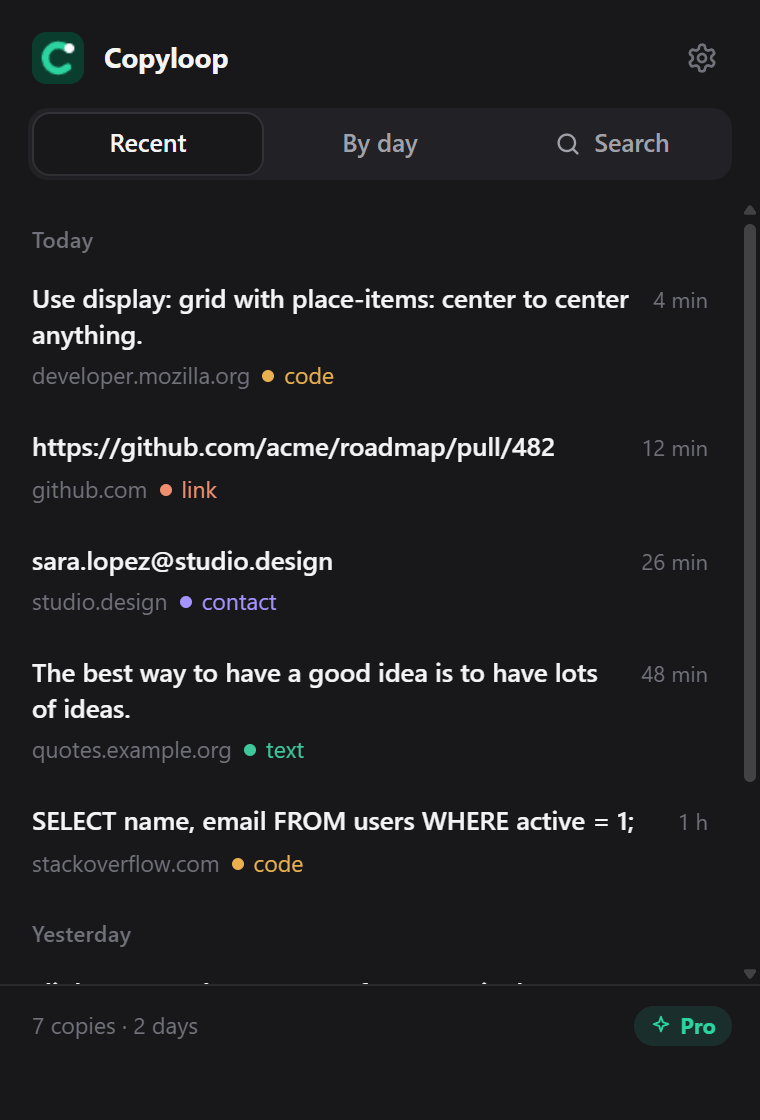
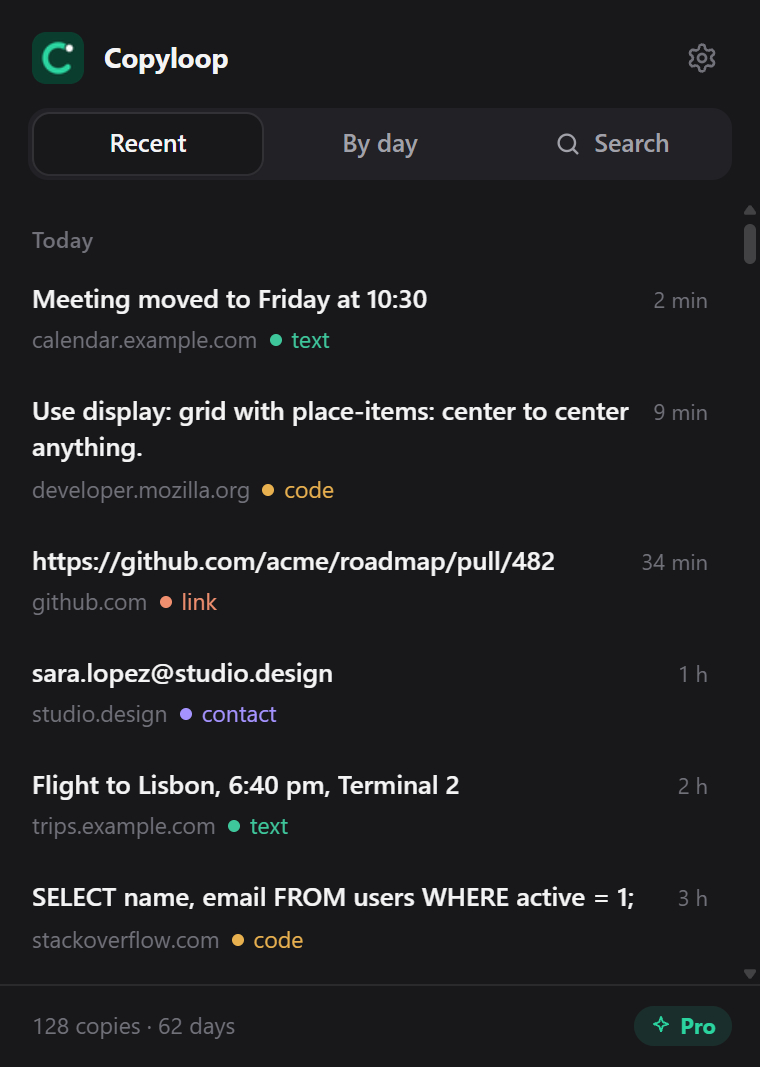
Update website for Copyloop 1.1.0
Add picture rows to the features section (search, by day, and the new
backup and restore), backup lines in the pricing plans and privacy list,
and a fresh popup screenshot in the hero.

diff --git a/index.html b/index.html
@@ -41,7 +41,7 @@
         <p class="note">Free forever plan · No account needed · Your history never leaves your device</p>
       </div>
       <div class="shot">
-        <img src="assets/popup.png" alt="The Copyloop popup showing recent copies, each with its site, a tag and the time" width="340" />
+        <img src="assets/popup.png?v=110" alt="The Copyloop popup showing recent copies, each with its site, a tag and the time" width="340" />
       </div>
     </div>
   </section>
@@ -50,6 +50,32 @@
     <div class="wrap">
       <h2>Your clipboard, with a memory</h2>
       <p class="sub">Chrome forgets what you copied as soon as you copy something else. Copyloop remembers all of it, and the page each copy came from.</p>
+
+      <div class="showcase">
+        <div class="show-row">
+          <div class="show-img"><img src="assets/shot-search.png" alt="Searching for &quot;invoice&quot; in Copyloop finds three copies, each with its site and date" width="380" loading="lazy" /></div>
+          <div class="show-text">
+            <h3>Find any copy in seconds</h3>
+            <p>Type a word you remember. Copyloop searches the copied text, the site and the page title, across your whole history.</p>
+          </div>
+        </div>
+        <div class="show-row flip">
+          <div class="show-img"><img src="assets/shot-day.png" alt="The By day view: a week strip with yesterday selected and the copies from that day" width="380" loading="lazy" /></div>
+          <div class="show-text">
+            <h3>Go back to any day</h3>
+            <p>Pick a day in the week strip to see everything you copied that day, or jump to any date with the calendar.</p>
+          </div>
+        </div>
+        <div class="show-row" id="backup">
+          <div class="show-img"><img src="assets/shot-backup.png" alt="The Save a backup page with password protection turned on and a Download backup button" width="420" loading="lazy" /></div>
+          <div class="show-text">
+            <span class="new">New in 1.1</span>
+            <h3>Bring your copies to a new computer</h3>
+            <p>Save all your copies to one file, with a password if you like. Restore it on another computer, or after reinstalling. Every copy keeps its original date.</p>
+          </div>
+        </div>
+      </div>
+
       <div class="grid">
         <div class="card">
           <div class="ico"><svg viewBox="0 0 24 24" fill="none" stroke="currentColor" stroke-width="2" stroke-linecap="round" stroke-linejoin="round"><rect width="13" height="13" x="9" y="9" rx="2"/><path d="M5 15c-1.1 0-2-.9-2-2V5c0-1.1.9-2 2-2h8c1.1 0 2 .9 2 2"/></svg></div>
@@ -107,6 +133,7 @@
         <li>Your history is stored only on your device. It's never uploaded, and we never see it.</li>
         <li>No account, no analytics, no ads, no tracking.</li>
         <li>Never saved: password fields, one-time codes, card numbers, common API keys and tokens, and anything copied on password-manager websites.</li>
+        <li>Backups are a file on your computer, and you can lock them with a password.</li>
         <li>Delete one copy or your whole history at any time.</li>
       </ul>
     </div>
@@ -125,6 +152,7 @@
             <li>Every copy saved on your device</li>
             <li>Today's copies, searchable</li>
             <li>All capture features</li>
+            <li>Back up today's copies</li>
           </ul>
         </div>
         <div class="plan">
@@ -135,6 +163,7 @@
             <li>Your full history</li>
             <li>Search everything</li>
             <li>Jump to any date</li>
+            <li>Back up your whole history</li>
           </ul>
         </div>
         <div class="plan best">

diff --git a/styles.css b/styles.css
@@ -59,6 +59,16 @@ section.alt { background: var(--soft); }
 h2 { font-size: clamp(28px, 3.4vw, 36px); letter-spacing: -0.02em; line-height: 1.15; margin: 0 0 12px; }
 .sub { color: var(--ink-2); font-size: 17px; margin: 0 0 40px; max-width: 40em; }
 
+.showcase { display: grid; gap: 56px; margin: 0 0 64px; }
+.show-row { display: grid; grid-template-columns: 1fr 1fr; gap: 56px; align-items: center; }
+.show-row.flip .show-img { order: 2; }
+.show-img { display: flex; justify-content: center; align-items: center; background: var(--brand); border-radius: 18px; padding: 32px; }
+.show-img img { width: 380px; max-width: 100%; height: auto; border-radius: 12px; box-shadow: 0 24px 60px rgba(0,0,0,0.35); }
+#backup .show-img img { width: 420px; }
+.show-text h3 { margin: 0 0 10px; font-size: 28px; line-height: 1.2; letter-spacing: -0.01em; }
+.show-text p { margin: 0; color: var(--ink-2); font-size: 17px; max-width: 30em; }
+.new { display: inline-block; margin-bottom: 12px; padding: 3px 12px; border-radius: 999px; background: var(--accent); color: var(--brand); font-size: 13px; font-weight: 700; }
+
 .grid { display: grid; grid-template-columns: repeat(3, 1fr); gap: 18px; }
 .card { background: var(--white); border: 1px solid var(--line); border-radius: var(--radius); padding: 22px; }
 .card h3 { margin: 12px 0 6px; font-size: 17px; }
@@ -121,11 +131,15 @@ footer a:hover { color: var(--ink); }
   .grid, .steps { grid-template-columns: 1fr 1fr; }
   .plans { grid-template-columns: 1fr 1fr; }
   .nav-links { display: none; }
+  .show-row { grid-template-columns: 1fr; gap: 24px; }
+  .show-row.flip .show-img { order: 0; }
 }
 @media (max-width: 600px) {
   .grid, .steps, .plans { grid-template-columns: 1fr; }
   .hero { padding-top: 48px; }
   .shot { padding: 18px; }
   .shot img { width: 100%; }
+  .show-img { padding: 18px; }
+  .show-text h3 { font-size: 23px; }
   footer nav { margin-left: 0; }
 }
